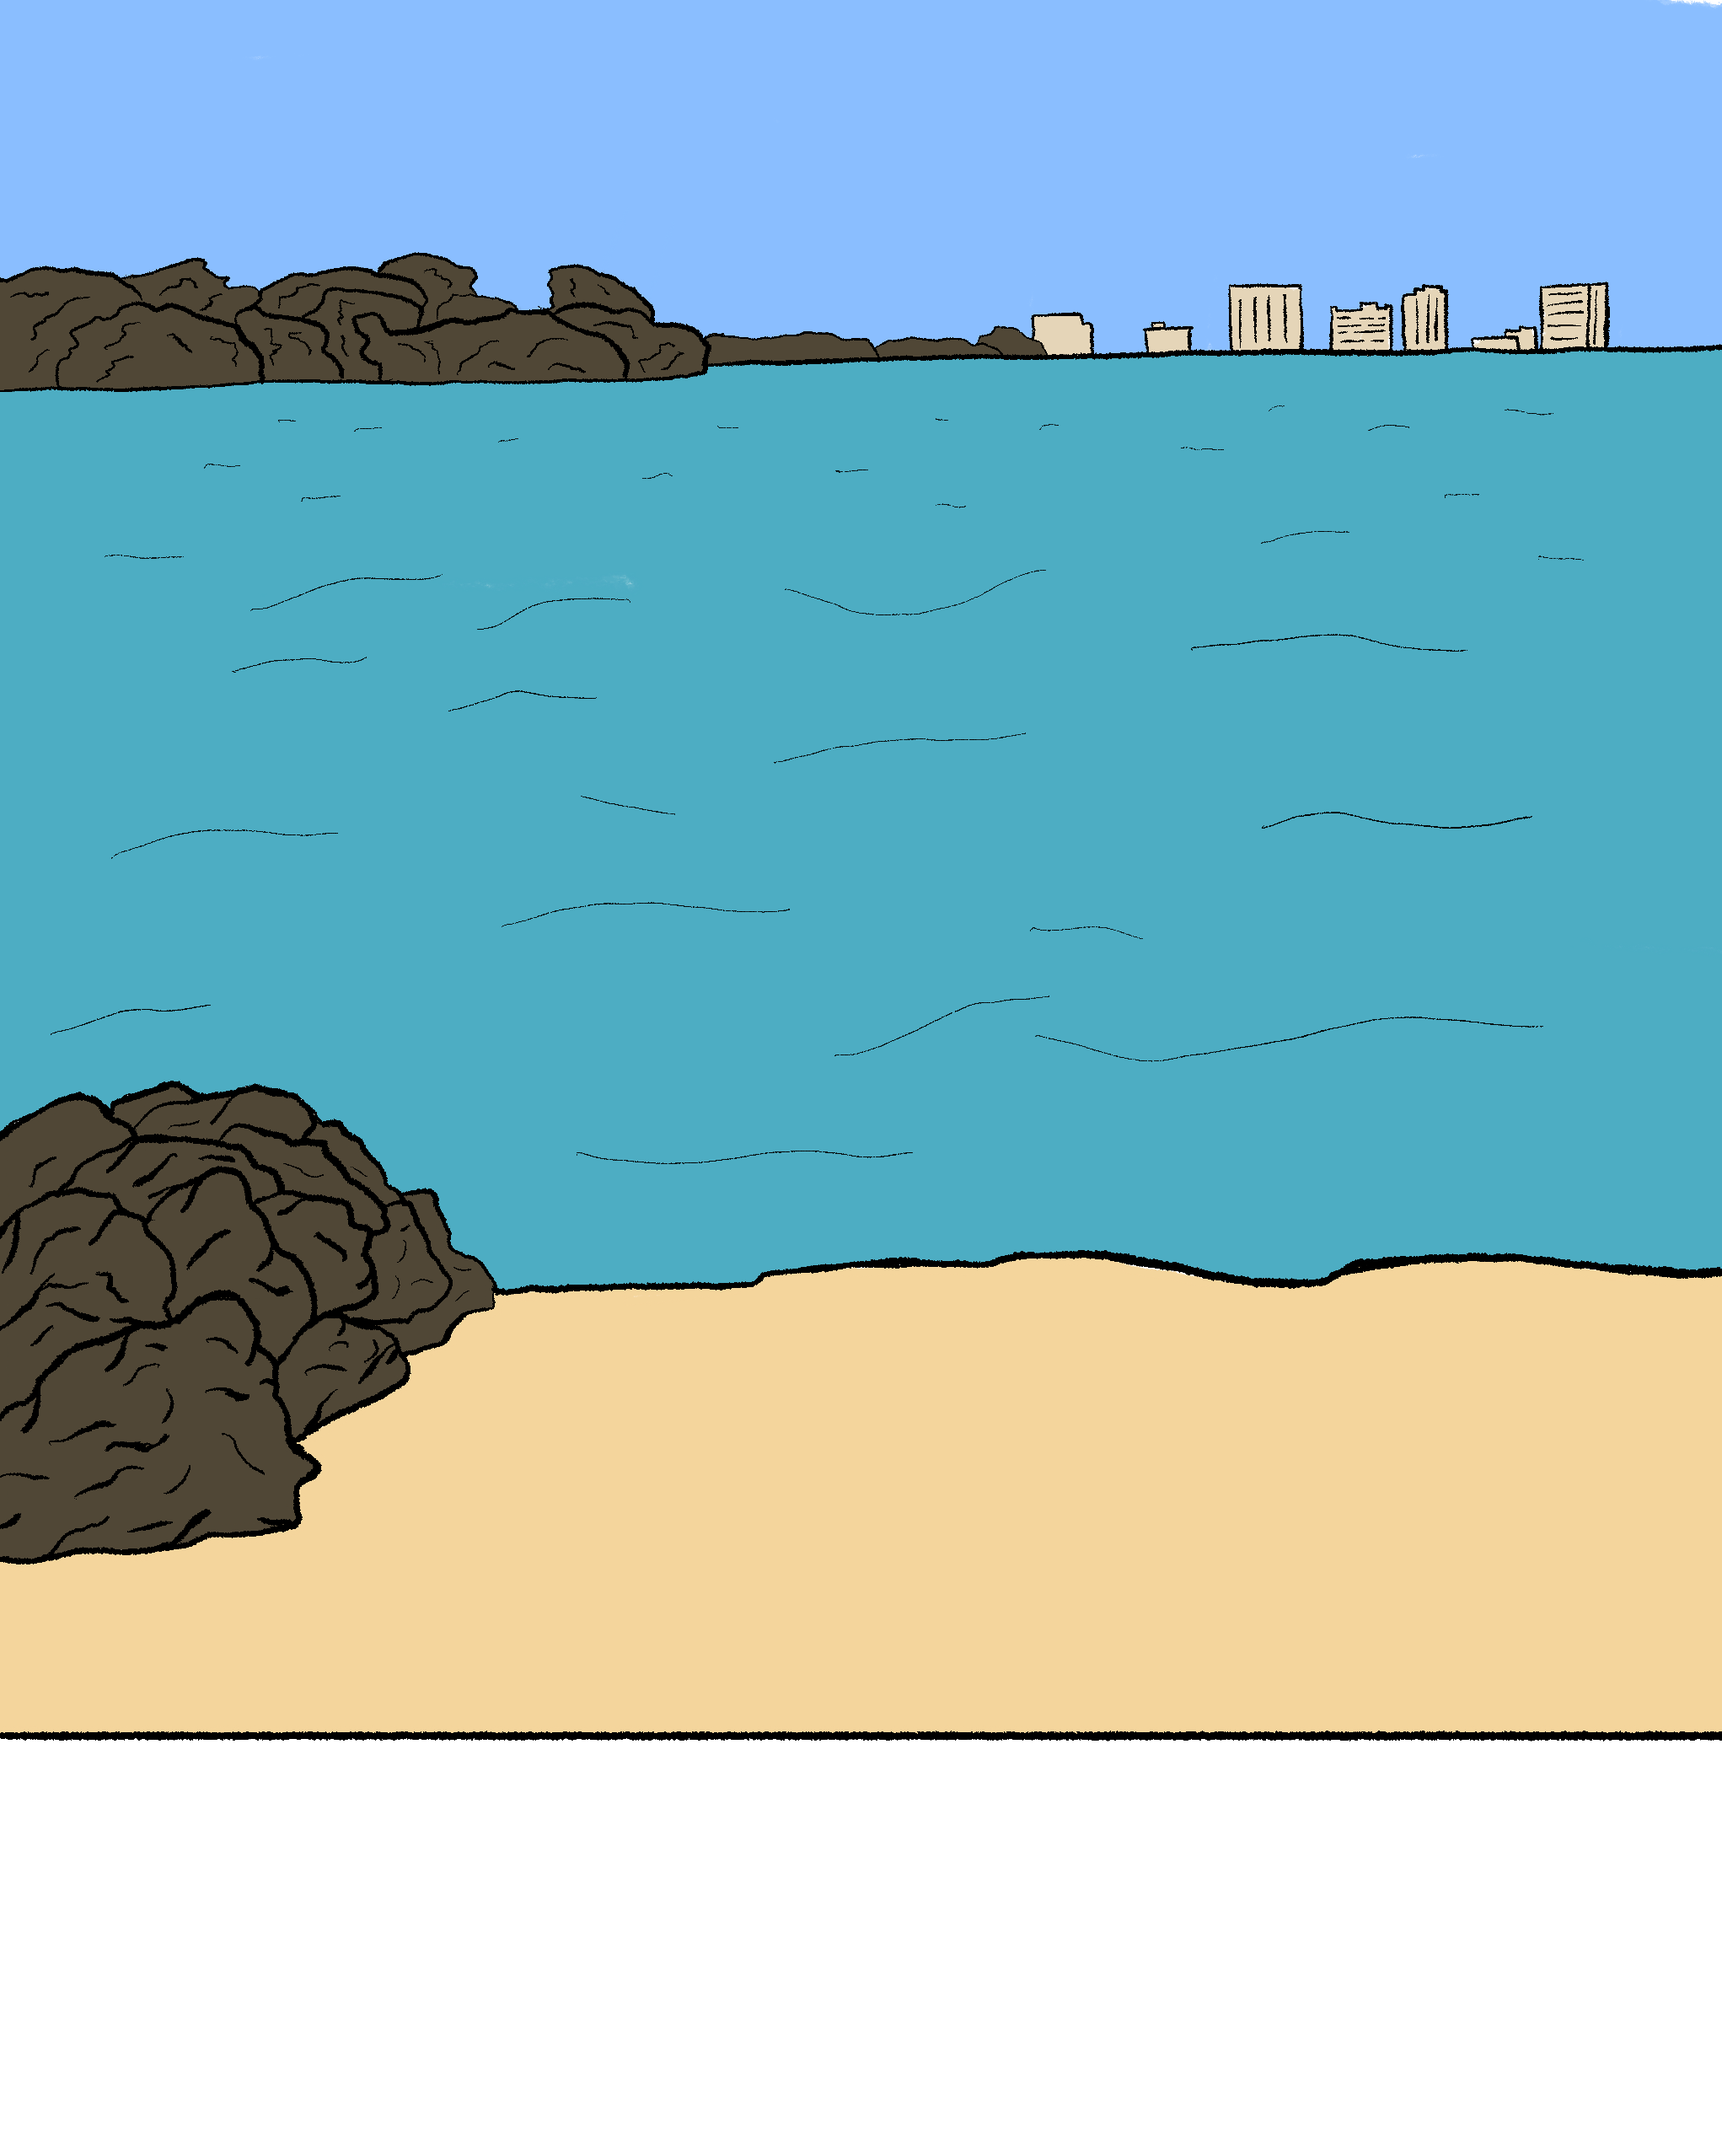
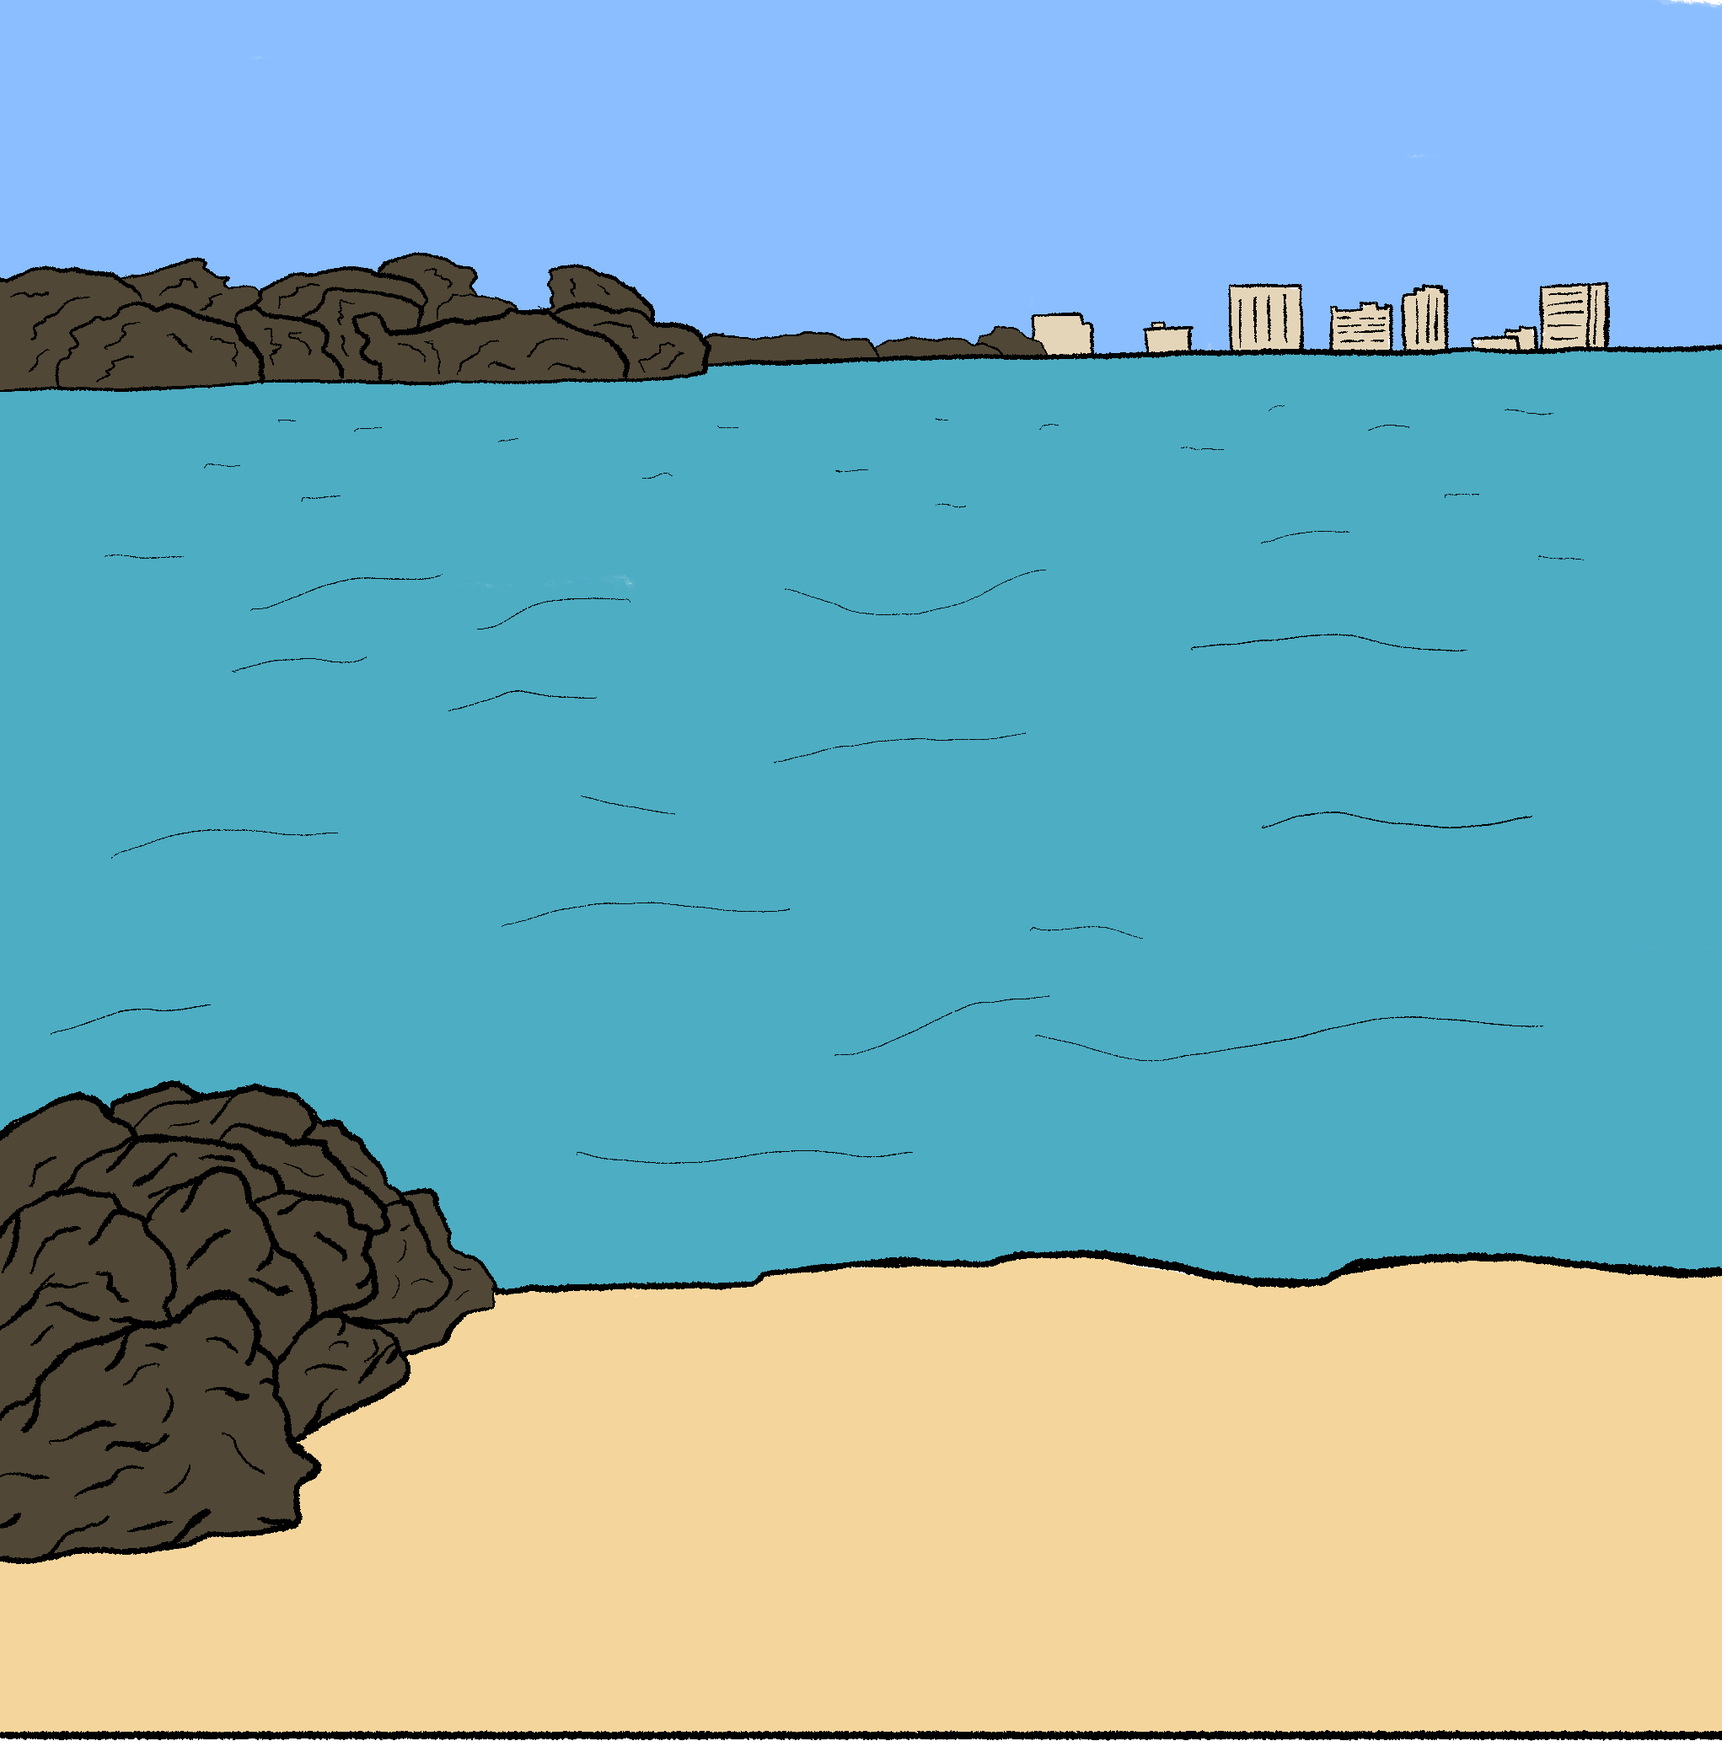
Fit the stage to each background so nothing is cropped
Reshape the canvas to the selected background's own proportions (set in
syncBackground from the image's natural size) and export at that size, so
each backdrop fills the stage with no crop and no empty margin. Trim the
transparent bottom padding baked into tower.png and beach.png; La Sala was
already full-bleed. The decorative size label now reflects the live image.

diff --git a/js/app.js b/js/app.js
@@ -201,11 +201,20 @@
   /* ---- Rendering / reconcile ------------------------------------------- */
   function syncBackground() {
     const bg = M.backgrounds.find(b => b.id === scene.background);
-    if (bg) {
-      bgImg.src = bg.src;
-      // "contain" shows the whole image (letterboxed); default is "cover".
-      bgImg.style.objectFit = bg.fit === "contain" ? "contain" : "cover";
-    }
+    if (!bg) return;
+    bgImg.style.objectFit = bg.fit === "contain" ? "contain" : "cover";
+    // Reshape the stage to the background's own proportions so the whole
+    // image shows with no cropping and no empty margin.
+    const applyAspect = () => {
+      const w = bgImg.naturalWidth, h = bgImg.naturalHeight;
+      if (!w || !h) return;
+      stage.style.aspectRatio = `${w} / ${h}`;
+      const label = $(".coord-br");
+      if (label) label.textContent = `W:${w} H:${h}`;
+    };
+    bgImg.onload = applyAspect;
+    bgImg.src = bg.src;
+    if (bgImg.complete) applyAspect();
   }
   function positionEl(el, it, sel) {
     const w = stage.clientWidth, h = stage.clientHeight;
@@ -442,7 +451,9 @@
   async function exportPNG() {
     const bg = M.backgrounds.find(b => b.id === scene.background);
     const bgImgEl = await load(bg.src);
-    const OUT_W = 1920, OUT_H = Math.round(OUT_W * 9 / 16);  // 16:9 @ 1080p
+    // Export at the background's own pixel size so it fills the frame exactly.
+    const OUT_W = bgImgEl.naturalWidth || bgImgEl.width || 1600;
+    const OUT_H = bgImgEl.naturalHeight || bgImgEl.height || 2000;
     const canvas = document.createElement("canvas");
     canvas.width = OUT_W; canvas.height = OUT_H;
     const ctx = canvas.getContext("2d");

diff --git a/css/styles.css b/css/styles.css
@@ -99,7 +99,10 @@ body {
   padding: 40px; position: relative; min-height: 0;
 }
 .canvas {
-  width: 100%; max-width: 820px; aspect-ratio: 16 / 9;
+  /* The stage reshapes per background (set in JS) so the whole image shows
+     with no crop/margin. Height-driven + max-width keeps it inside the row.
+     aspect-ratio here is just the default-background fallback before load. */
+  height: 100%; width: auto; max-width: 100%; aspect-ratio: 2043 / 2079;
   background: var(--color-sky); position: relative; overflow: hidden;
   border: 1px solid var(--grid-color); box-shadow: 0 20px 40px rgba(0,0,0,0.05);
   touch-action: none;

diff --git a/index.html b/index.html
@@ -29,7 +29,7 @@
       <div class="canvas" id="stage">
         <img id="stageBg" class="stage__bg" src="" alt="Background" />
         <div class="coord-marker coord-tl">X:00 Y:00</div>
-        <div class="coord-marker coord-br">W:1920 H:1080</div>
+        <div class="coord-marker coord-br">W:2043 H:2553</div>
         <div class="stage-hint" id="stageHint">Drag <b>Grandma</b> onto the scene&nbsp;→</div>
         <div class="caption-band empty" id="captionBand"><span id="captionText"></span></div>
       </div>

diff --git a/assets/manifest.js b/assets/manifest.js
@@ -21,7 +21,7 @@ window.SCENE_MANIFEST = {
   character: { frameW: 800, frameH: 1200 },
 
   backgrounds: [
-    { id: "tower",  label: "Tower",   src: "public/tower.png",  thumb: "public/tower.png", fit: "contain" },
+    { id: "tower",  label: "Tower",   src: "public/tower.png",  thumb: "public/tower.png" },
     { id: "lasala", label: "La Sala", src: "public/lasala.png", thumb: "public/lasala.png" },
     { id: "beach",  label: "Beach",   src: "public/beach.png",  thumb: "public/beach.png" },
   ],
